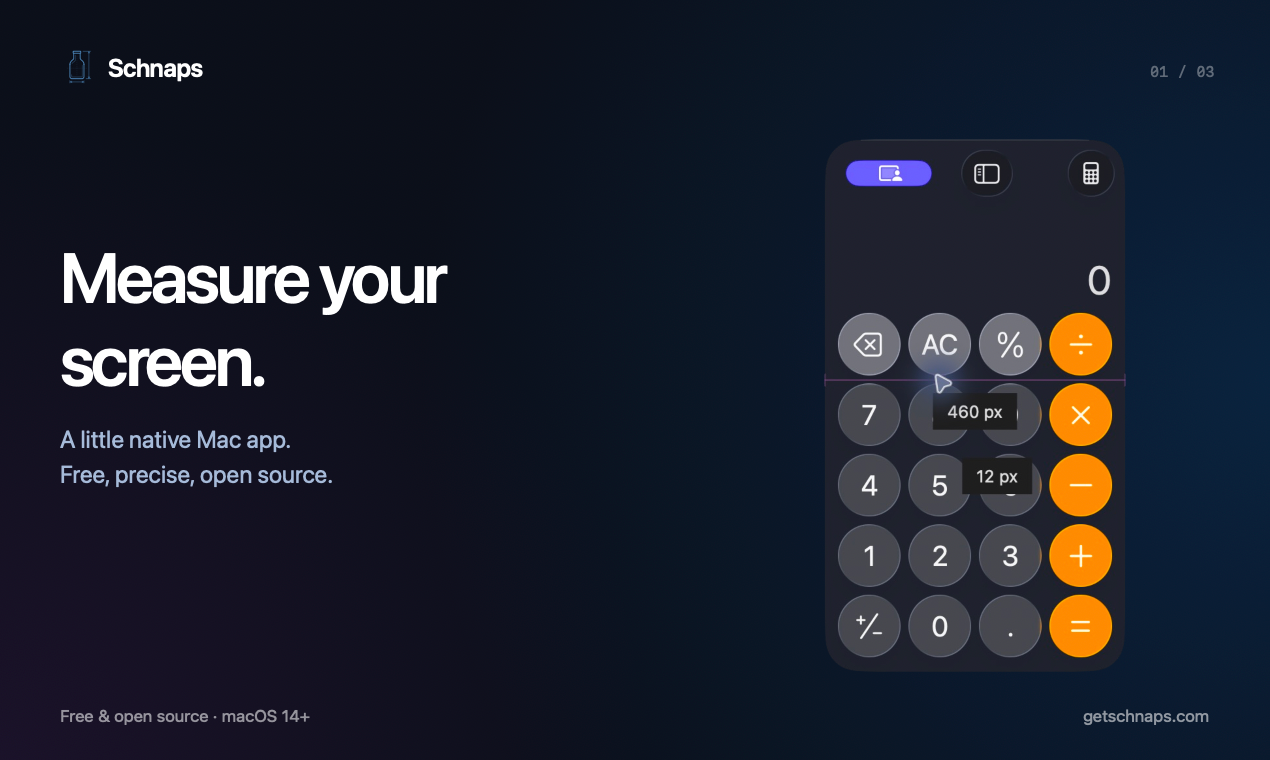
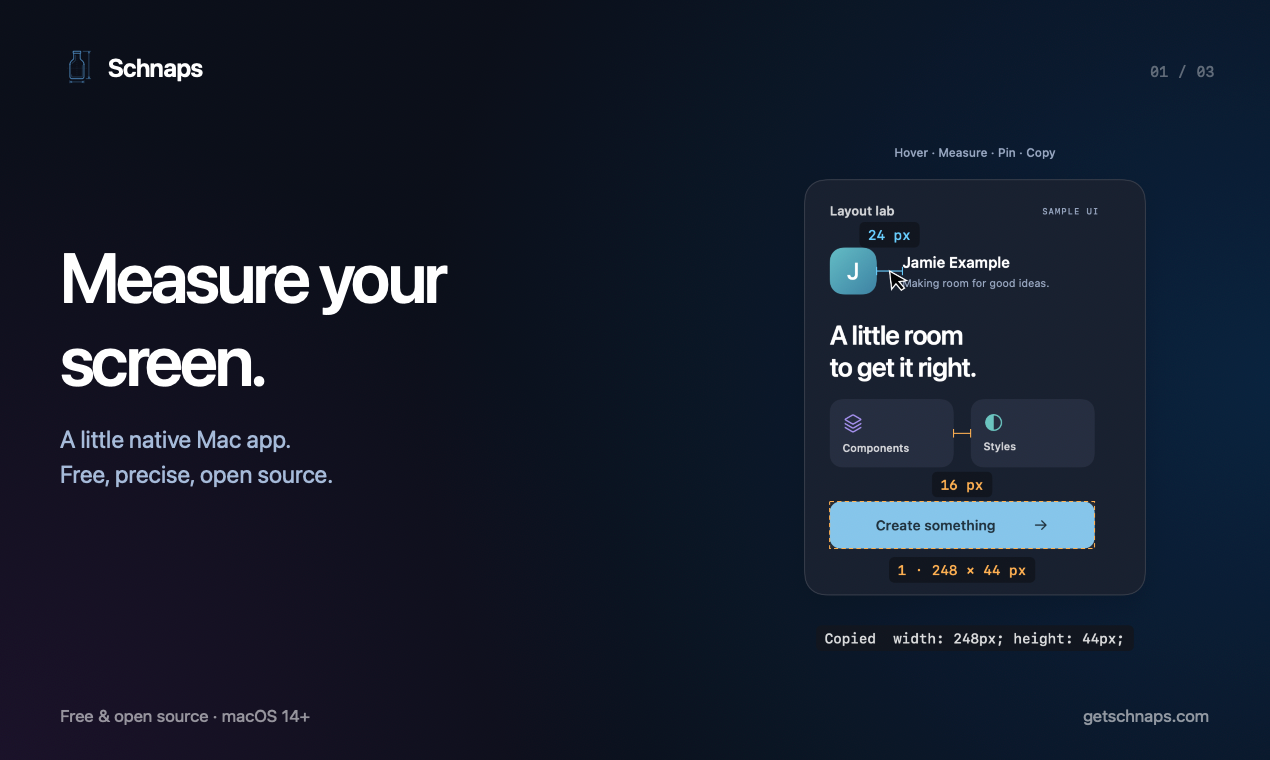
Use Layout lab illustration in Product Hunt gallery

Changed region(s): [[0.6449, 0.1816, 0.8906, 0.8776], [0.8598, 0.3329, 0.8906, 0.3934], [0.8291, 0.2724, 0.8598, 0.3026]]

diff --git a/Scripts/export-product-hunt.swift b/Scripts/export-product-hunt.swift
@@ -5,8 +5,10 @@ import SwiftUI
 let root = URL(fileURLWithPath: FileManager.default.currentDirectoryPath)
 let output = root.appendingPathComponent("Assets/ProductHunt")
 let mark = NSImage(contentsOf: root.appendingPathComponent("Assets/Artwork/Schnaps-Blueprint.svg"))!
-let hover = NSImage(contentsOf: root.appendingPathComponent("website/dist/assets/schnaps-demo-poster.webp"))!
-let selection = NSImage(contentsOf: output.appendingPathComponent("Source/selection.png"))!
+// Selected states of the explicitly illustrated Layout lab homepage demo.
+let overview = NSImage(contentsOf: output.appendingPathComponent("Source/overview.png"))!
+let hover = NSImage(contentsOf: output.appendingPathComponent("Source/hover.png"))!
+let selection = NSImage(contentsOf: output.appendingPathComponent("Source/pin.png"))!
 let icon = NSImage(contentsOf: root.appendingPathComponent("Assets/Artwork/Schnaps-Dock.svg"))!
 
 struct HuntCard: View {
@@ -55,7 +57,7 @@ try MainActor.assumeIsolated {
         print("\(name): \(image.width) × \(image.height), \(png.count) bytes")
     }
     let cards = [
-        ("01-overview", "Measure your\nscreen.", "A little native Mac app.\nFree, precise, open source.", hover),
+        ("01-overview", "Measure your\nscreen.", "A little native Mac app.\nFree, precise, open source.", overview),
         ("02-find-dimensions", "Hover.\nSee the gap.", "See horizontal and vertical\ndistances between elements.", hover),
         ("03-pin-and-copy", "Measure.\nPin. Copy.", "Keep measurements on screen.\nCopy pixels, points, or CSS.", selection)
     ]
